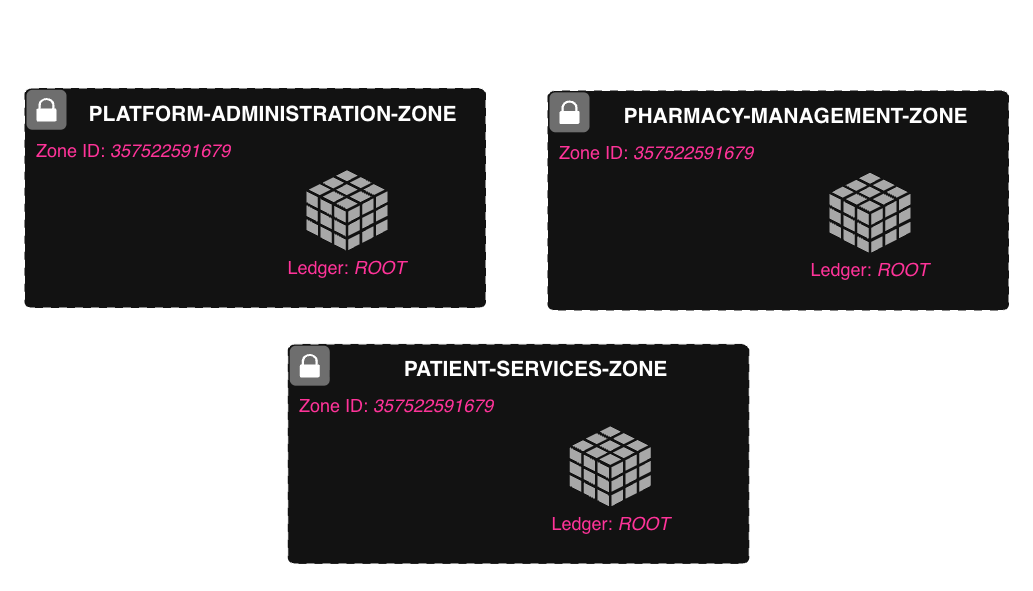
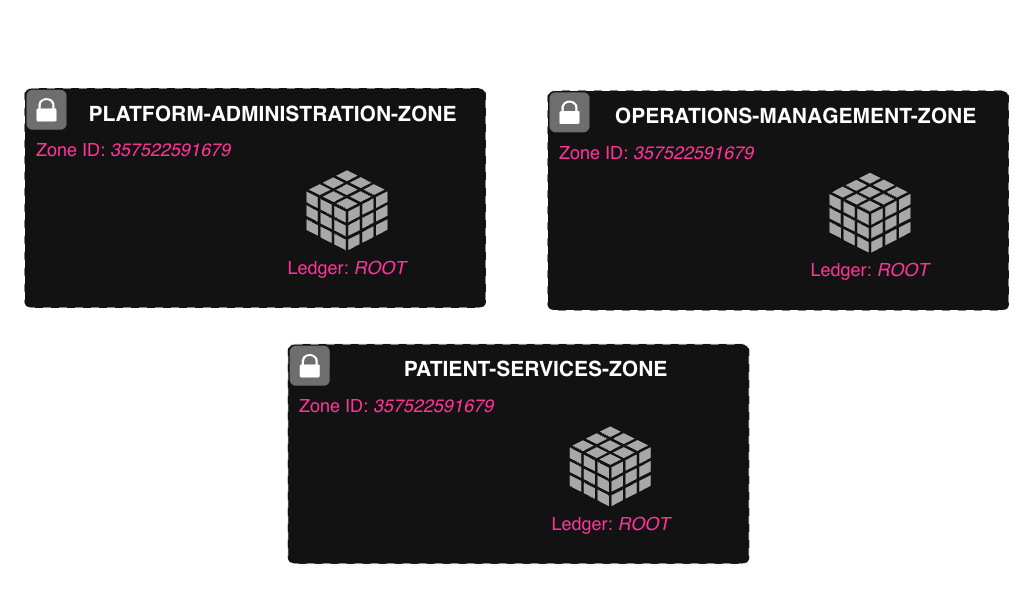
Updated hands-on example

Changed region(s): [[0.5886, 0.1827, 0.9603, 0.2132], [0.031, 0.2437, 0.2478, 0.2741]]

diff --git a/www/content/docs/0.0.x/getting-started/hands-on-base-example.md b/www/content/docs/0.0.x/getting-started/hands-on-base-example.md
@@ -1,6 +1,6 @@
 ---
-title: "Hands-on Example"
-slug: "Hands-on Example"
+title: "Hands-on Base Example"
+slug: "Hands-on Base Example"
 description: ""
 summary: ""
 date: 2023-08-15T14:47:57+01:00
@@ -9,7 +9,7 @@ draft: false
 menu:
   docs:
     parent: ""
-    identifier: "hands-on-example-8c89ddc8339f83444fc4b97264bd5c45"
+    identifier: "hands-on-base-example-8c89ddc8339f83444fc4b97264bd5c45"
 weight: 1004
 toc: true
 seo:
@@ -19,28 +19,32 @@ seo:
   noindex: false # false (default) or true
 ---
 
-## PharmaAuthZFlow example
+## PharmaAuthZFlow Example
 
-The **PharmaAuthZFlow** example demonstrates how `Permguard` can be used to enforce authorization across multiple domains of a real application.
+The **PharmaAuthZFlow** example demonstrates how `Permguard` enforces authorization across the distinct trust boundaries of a pharmacy ecosystem.
 
-It shows how `users`, `workloads`, `roles`, and `resources` interact within a Zero Trust authorization model.
+It illustrates how `users`, `workloads`, `roles`, and `resources` interact within a Zero Trust authorization model.
 
-The example is intentionally simplified to focus on the core concepts.
-We highlight **three main domains**:
+The example is intentionally simplified to focus on core authorization concepts.
+We highlight **three main domains**, each modeled as a separate Permguard `zone`:
 
-- **Platform Administration Domain**
-  Manages the pharmacy franchise: branches, teams, roles, and administrative operations.
+### **Platform-Administration Domain**
+Manages the pharmacy franchise: branches, teams, roles, and administrative operations.
 
-- **Pharmacy Management Domain**
-  Focuses on operational workflows inside the pharmacy: organization, inventory, logistics, and infrastructure.
+### **Operations-Management Domain**
+Handles operational workflows: medication orders, fulfillment, stock levels, inventory management, and logistics.
 
-- **Patient Services Domain**
-  Covers clinical and dispensing workflows: patients, prescriptions, medication orders, fulfillment, appointments, and notifications.
+### **Patient-Services Domain**
+Covers clinical workflows: patients, prescriptions, medication requests, dispensing, appointments, and notifications.
 
-Each domain is treated as a separate bounded context — effectively a dedicated segment representing its own trusted boundary.
-In real enterprise scenarios, domains would typically be further micro-segmented, but for this example we keep the model simple.
+Each domain represents a dedicated bounded context (and trust boundary).
+In real environments, these could be further micro-segmented, but for this example, the model is kept simple.
 
-Each of these domains has its own `zone` and `ledger` for managing policies.
+Each domain has its own Permguard `zone` and `root` ledger to manage its policies.
+
+{{< callout context="note" icon="info-circle" >}}
+Before going ahead, make sure the [CLI is installed](/docs/0.0.x/getting-started/get-the-cli/) and the [AuthZServer is running](/docs/0.0.x/getting-started/run-the-authzserver/).
+{{< /callout >}}
 
 ## Creating the Zones and Ledgers
 
@@ -71,62 +75,72 @@ cb275322b8ae4b6f8f540d7601dee8ed: root
 e3de2d340e47406d90fd89d2b4a36974: root
 ```
 
-Each domain (patients, prescriptions, inventory, etc.) maintains its own **ledger**, ensuring isolation per branch, full traceability, and secure access decisions.
+## Use Cases, Roles, and Architectural Components
 
-| **Domain** | **Ledger** | **What it tracks** |
-|----------------|---------------|------------------------|
-| **Branch Management** | `branch-management-ledger` | Registration and configuration of pharmacy branches |
-| **Patients** | `patient-event-ledger` | Patient data, profile updates, and consent changes |
-| **Prescriptions** | `prescription-event-ledger` | Prescription creation and dispensing records |
-| **Inventory** | `inventory-transaction-ledger` | Stock movements and restock triggers |
-| **Orders** | `order-event-ledger` | Order lifecycle and refund operations |
-| **Appointments** | `appointment-ledger` | Bookings and schedule changes |
-| **Notifications** | `notification-ledger` | Sent messages and delivery results |
+In this example, we implement **two main use cases**:
 
-{{< callout context="note" icon="info-circle" >}}
-Before to start make sure che [CLI is installed](/docs/0.0.x/getting-started/get-the-cli/)  and the [AuthZServer is running](/docs/0.0.x/getting-started/run-the-authzserver/).
-{{< /callout >}}
+1. **Branch Management**
+2. **Prescription and Medication Order Flow**
 
-## Check out the Playground
+Each use case spans multiple roles, services, and trusted zones within the PharmaAuthZFlow architecture.
 
-The first step is to check out the `PharmaAuthZFlow` playground.
+<div style="text-align: center">
+  <img alt="Permguard" src="/images/diagrams/pharmaazflow-components.png"/>
+</div>
 
-This example demonstrates Permguard in action and allows testing of its features.
+---
 
-```text
-git clone git@github.com:permguard/playground-server.git
-cd playground-server/cedar/pharmaauthzflow/
-```
+### 1. Branch Management
 
-## Create the Zone and Policy Store
+This use case covers the administrative workflow of creating and managing pharmacy branches, teams, and roles.
 
-The next step is to initialize the workspace then create a zone and the policy store.
+#### Description
 
-{{< callout context="note" icon="info-circle" >}}
-Plese refer to the [Command Line](/docs/0.0.x/command-line/how-to-use/) section for more information about the available commands.
-{{< /callout >}}
+- A **Platform Admin** creates a new branch.
+- The admin assigns a **Branch Owner** to that branch.
+- The **Branch Owner** configures the local team and assigns roles such as *pharmacist* or *inventory-operator*.
 
-```text
-permguard zones create --name platform-admin-zone
-```
+#### Roles
 
-Here’s what you’ll see.
+| Role             | Description                                    |
+|------------------|------------------------------------------------|
+| `platform-admin` | Manages global franchise-level operations       |
+| `branch-owner`   | Manages branch-level team and role assignments  |
 
-```text
-895741663247: platform-admin-zone
-```
+#### Services & Zones
 
-It is important to note that the `zoneid` is required for the ledger creation and it is returned by the previous command.
+| Zone                           | Service             | Purpose                                  |
+|--------------------------------|---------------------|------------------------------------------|
+| `platform-administration-zone` | `platform-service`  | Branch creation, user/role assignment    |
 
-```text
-permguard authz ledgers create --name pharmaauthzflow --zone-id 895741663247
-```
+---
 
-Displayed result.
+### 2. Prescription & Medication Order Flow
 
-```text
-809257ed202e40cab7e958218eecad20: pharmaauthzflow
-```
+This use case covers the clinical workflow from prescription creation to medication ordering and stock verification.
+
+#### Description
+
+- A **Patient** submits a prescription request.
+- A **Pharmacist** validates the request.
+- The **Pharmacist** triggers an order through the *Orders Service*.
+- The **Inventory Operator** checks stock via the *Inventory Service* and orders medication if needed.
+
+#### Roles
+
+| Role                 | Description                                      |
+|----------------------|--------------------------------------------------|
+| `patient`            | Requests prescriptions                            |
+| `pharmacist`         | Validates prescriptions and places medication orders |
+| `inventory-operator` | Verifies stock and handles inventory ordering    |
+
+#### Services & Zones
+
+| Zone                        | Service                | Purpose                                     |
+|-----------------------------|------------------------|---------------------------------------------|
+| `patient-services-zone`     | `prescriptions-service`| Handles prescription submissions             |
+| `operations-management-zone`| `orders-service`       | Orders medications from suppliers            |
+| `operations-management-zone`| `inventory-service`    | Checks and updates medication inventory      |
 
 ## Set Up the Workspace
 

diff --git a/www/content/docs/0.0.x/concepts/permissions/ledgers.md b/www/content/docs/0.0.x/concepts/permissions/ledgers.md
@@ -23,7 +23,7 @@ In **Permguard**, multiple zones can be created, and each zone can have multiple
 This provides a structured way to manage `authz` models which include **manifests, schemas, policies, and permissions**.
 
 {{< callout context="note" icon="info-circle" >}}
-In the [PharmaAuthZFlow sample](/docs/0.0.x/getting-started/hands-on-example/), the `pharmaauthzflow` ledger is one of the example ledgers created in the sample.
+In the [PharmaAuthZFlow base example](/docs/0.0.x/getting-started/hands-on-base-example/), the `pharmaauthzflow` ledger is one of the example ledgers created in the sample.
 {{< /callout >}}
 
 ## Policy Ledger

diff --git a/www/content/docs/0.0.x/concepts/permissions/enforcement.md b/www/content/docs/0.0.x/concepts/permissions/enforcement.md
@@ -22,7 +22,7 @@ In **Permguard**, enforcement is handled by the **Policy Enforcement Point (PEP)
 Its role is to verify whether an `identity` has permission to perform specific `actions` on `resources` within a given `namespace`.
 
 {{< callout context="note" icon="info-circle" >}}
-In the [PharmaAuthZFlow sample](/docs/0.0.x/getting-started/hands-on-example/), the application enforces different types of permission checks.
+In the [PharmaAuthZFlow base example](/docs/0.0.x/getting-started/hands-on-base-example/), the application enforces different types of permission checks.
 {{< /callout >}}
 
 ## Enforcement

diff --git a/www/content/docs/0.0.x/concepts/zones/zones.md b/www/content/docs/0.0.x/concepts/zones/zones.md
@@ -23,7 +23,7 @@ seo:
 Each `zone` segments a distinct `trust model` and maintains its own ledgers, manifests, schemas, policies, and permissions.
 
 {{< callout context="note" icon="info-circle" >}}
-In the [PharmaAuthZFlow sample](/docs/0.0.x/getting-started/hands-on-example/), the `platform-admin-zone` is created as one of the example segments.
+In the [PharmaAuthZFlow sample](/docs/0.0.x/getting-started/hands-on-base-example/), the `platform-admin-zone` is created as one of the example segments.
 {{< /callout >}}
 
 Each zone is uniquely identified by a `name`.

diff --git a/www/content/docs/0.0.x/concepts/permissions/policies.md b/www/content/docs/0.0.x/concepts/permissions/policies.md
@@ -22,7 +22,7 @@ seo:
 In **Permguard**, multiple ledgers can be created, and each ledger can have multiple **policies**.
 
 {{< callout context="note" icon="info-circle" >}}
-In the [PharmaAuthZFlow sample](/docs/0.0.x/getting-started/hands-on-example/) policies such as **`platform-manager`** are created.
+In the [PharmaAuthZFlow base example](/docs/0.0.x/getting-started/hands-on-base-example/) policies such as **`platform-manager`** are created.
 {{< /callout >}}
 
 ## Policy
